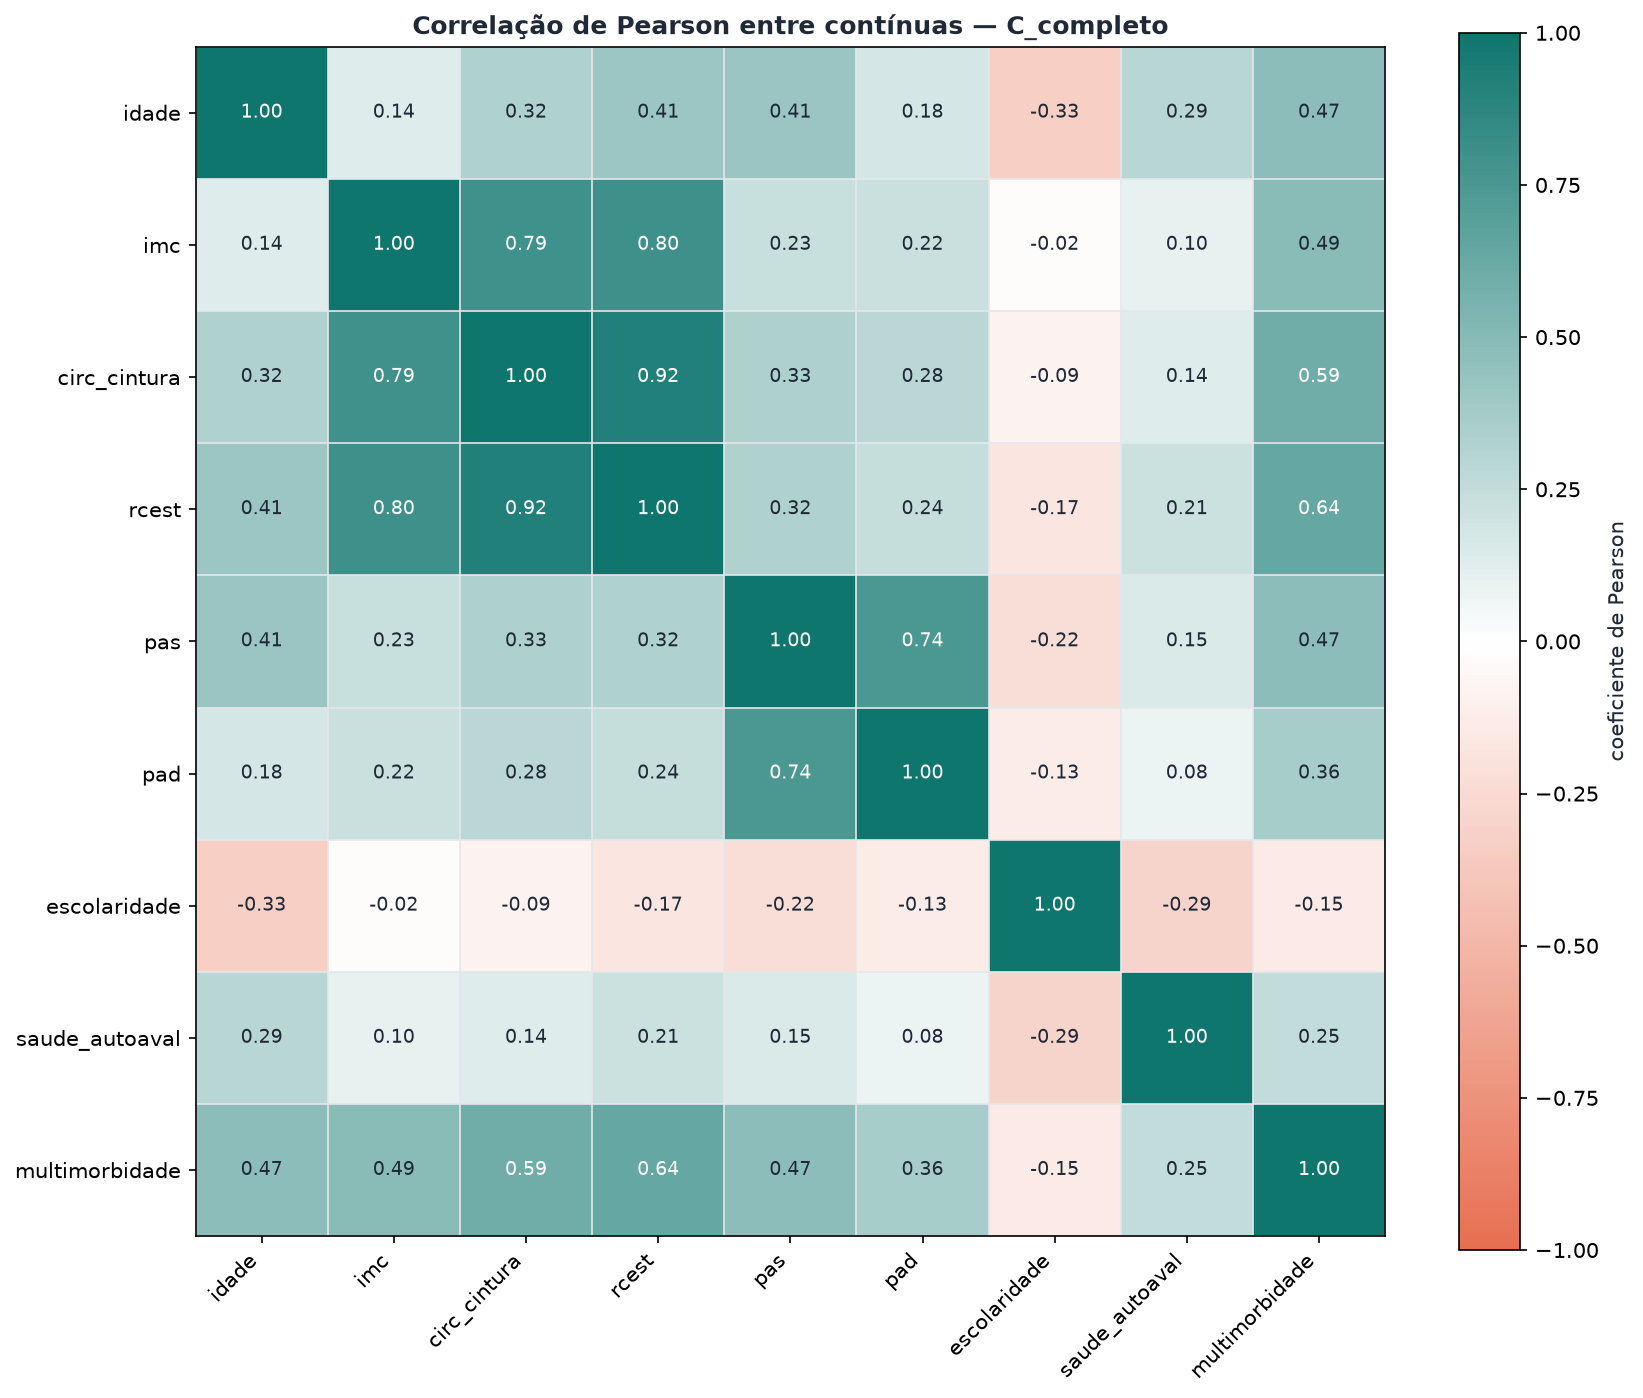
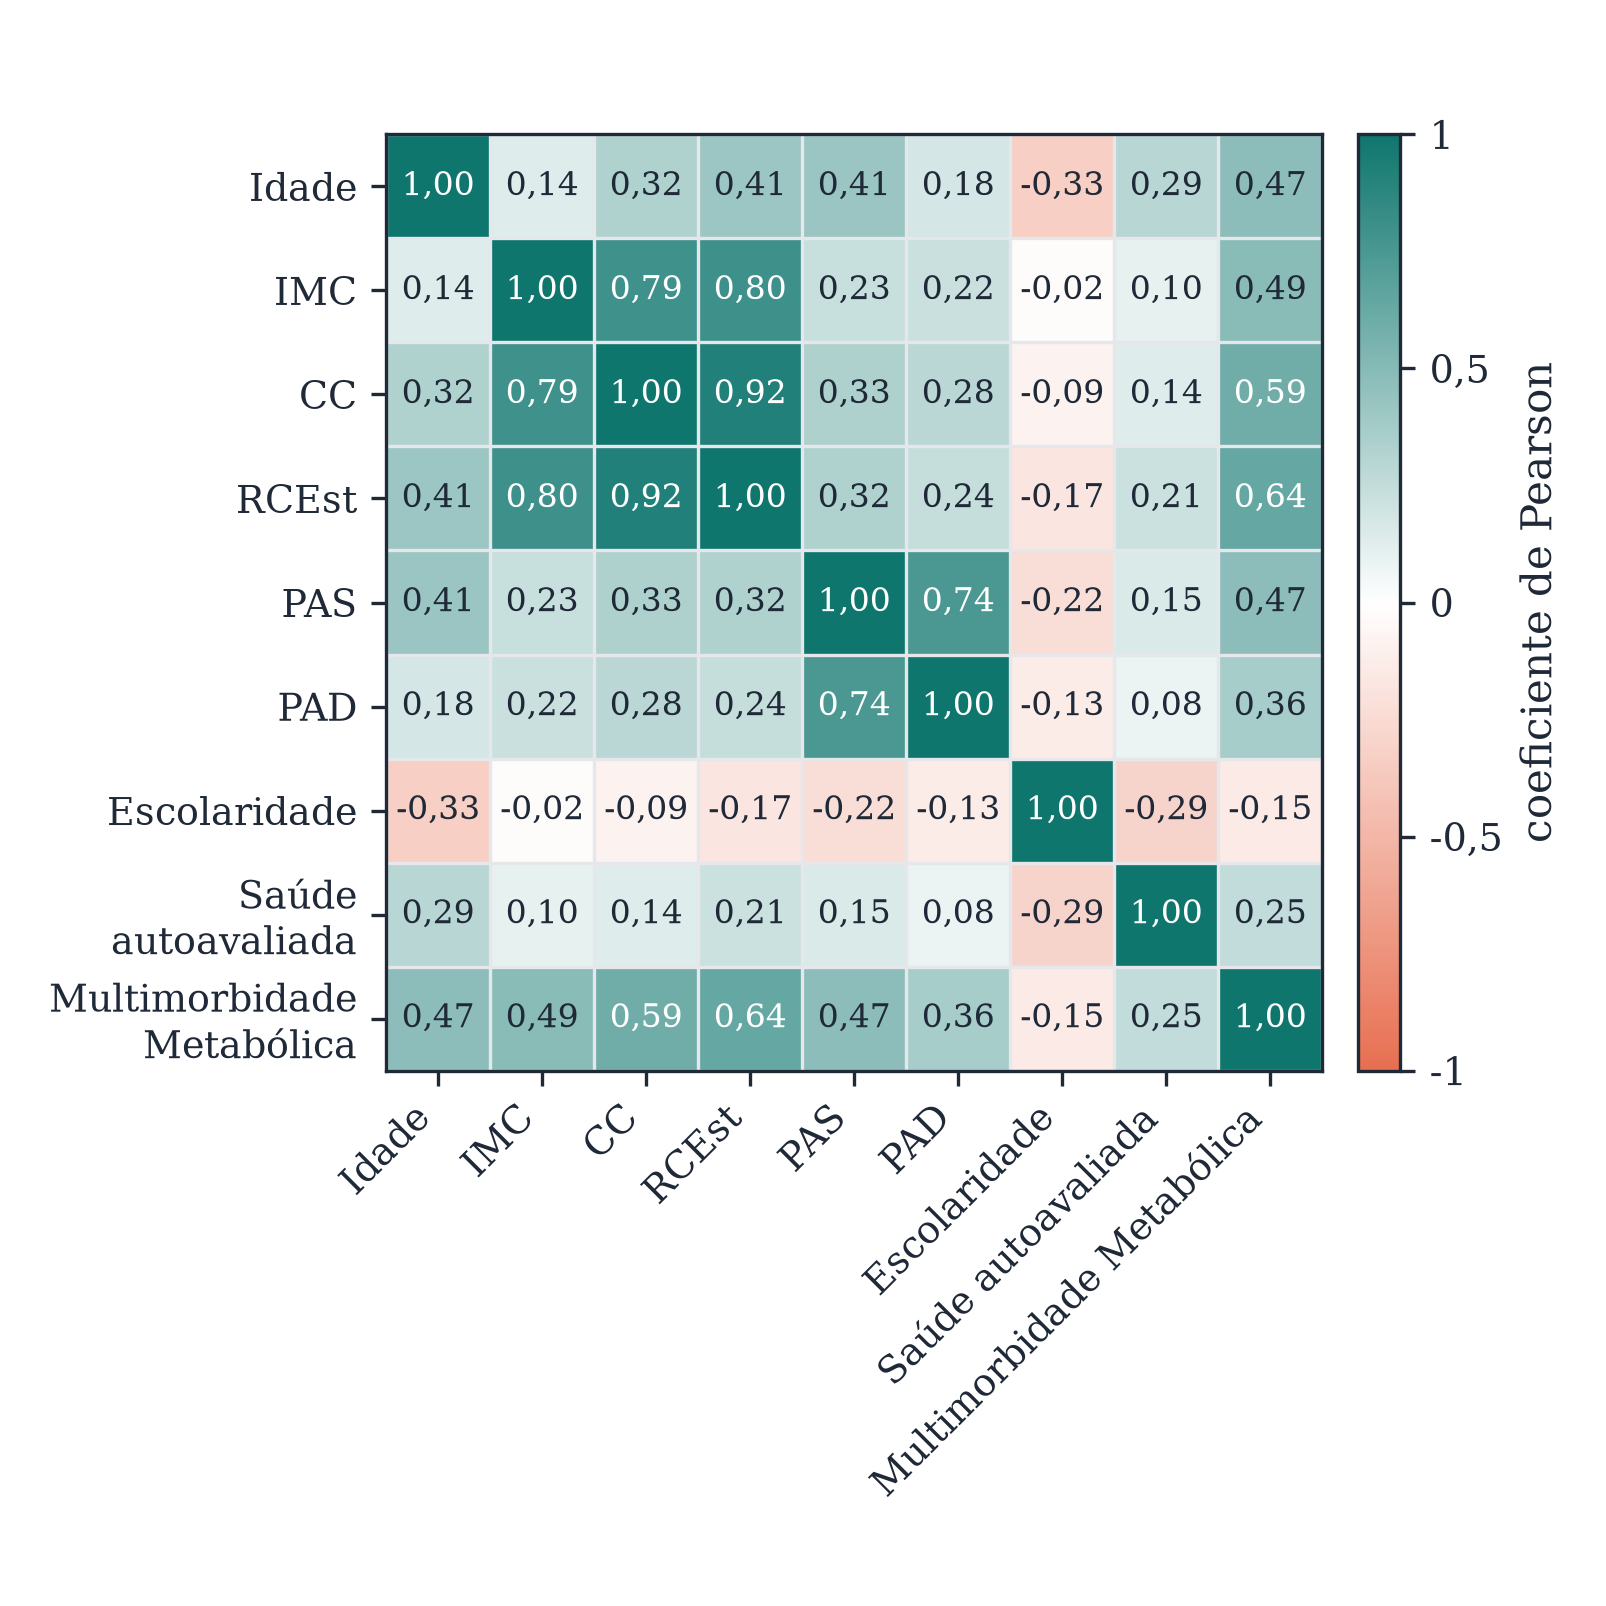
Documentação

diff --git a/monografia/chapters/6-discussoes.tex b/monografia/chapters/6-discussoes.tex
@@ -3,20 +3,27 @@
 % ----------------------------------------------------------
 
 \section{Aplicabilidade na Atenção Primária}\label{sec:disc-aplicabilidade}
-% regra encaminha 84,0% em ponto único; modelo escolhe o ponto conforme a capacidade da rede
-% troca quantificada: 736 encaminhamentos a menos (51,8%) ao custo de 19 casos
-% ordem de grandeza frente à literatura do referencial (FINDRISC, BrDMrisc, Carrillo-Larco),
-%   sem comparação direta: desfechos e desenhos diferentes (pendente: conferir o que cada artigo reporta)
+A regra clínica avaliada encaminhou 84,0\% do conjunto de teste a exame, em um ponto de operação único e não ajustável, de maneira que, aplicada à população atendida pela APS, a regra pouco seleciona quem examinar, deslocando para a etapa laboratorial praticamente toda a demanda. O modelo de referência, por sua vez, permite escolher o ponto de operação conforme a capacidade da rede, característica relevante em um contexto de atendimento predominantemente por demanda espontânea e com capacidade limitada \cite{geremia2020atenccao}. No ponto de operação principal, o modelo encaminhou 40,5\% do conjunto de teste, reduzindo os encaminhamentos em 736, isto é, em 51,8\%, ao custo de 19 casos não detectados em relação à regra. Além disso, a precisão, que corresponde à proporção de encaminhados que de fato apresentaram o desfecho, passou de 0,081 na regra para 0,140 no modelo.
+
+Essa forma de avaliar uma estratégia de triagem pela fração da população que ela encaminha encontra paralelo na literatura nacional. Ao apresentar o BrDMrisc, \textcite{bracco2026brdmrisc} destacam como propriedade favorável do escore a identificação de uma fração mais manejável da população como de alto risco, de 20,0\% contra 40,6\% da estratégia baseada apenas na glicemia de jejum alterada, com probabilidade de desenvolver diabetes entre os identificados de 28,5\% contra 17,1\%. Cabe ressaltar que o BrDMrisc estima o risco de diabetes incidente a partir de uma coorte longitudinal, de maneira que os seus valores não são comparáveis aos deste trabalho, sendo a convergência restrita ao critério de avaliação da triagem.
+
+No que se refere à capacidade discriminativa, a revisão sistemática de \textcite{CarrilloLarco2020} reuniu quatro estudos realizados na América do Sul que reestimaram o FINDRISC para a identificação de diabetes não diagnosticado, com prevalências entre 2,6\% e 5,1\%, e reportou valores de AUC-ROC entre 0,68 e 0,75. Os modelos deste trabalho, com AUC-ROC entre 0,770 e 0,786 no conjunto de teste, situam-se na mesma ordem de grandeza. Essa aproximação, no entanto, não constitui uma comparação direta, visto que os estudos revisados utilizaram amostras locais, um desfecho definido pela combinação de glicemia de jejum, HbA1c e teste de tolerância à glicose, restrito a casos não diagnosticados, além de variáveis comportamentais e de histórico familiar excluídas deste trabalho, enquanto o desfecho aqui adotado corresponde à HbA1c $\geq$ 6,5\% em uma subamostra nacional, sem distinção entre casos previamente diagnosticados e não diagnosticados. Os autores apontaram ainda que todos os estudos apresentaram alto risco de viés e que nenhum reportou métricas de calibração, aspecto avaliado neste trabalho e cujo resultado, apresentado no capítulo de Resultados, restringe a leitura das saídas dos modelos a escores de ordenação.
 
 \section{O Critério de Sucesso no Regime de Sensibilidade Equiparada}\label{sec:disc-criterio}
-% resultado negativo da referência; só RF A cumpre, por 0,009 de NNS
-% critério decidido numa região em que todas as estratégias encaminham mais de 84%
-% por que a referência não foi trocada pela única célula que cumpre (escolha a partir do resultado)
+O modelo de referência não cumpriu o critério de sucesso estabelecido antes da execução, e esse resultado foi mantido como tal, sem redefinição do critério, do regime de comparação ou do modelo de referência. A análise dos números que o compõem, entretanto, qualifica o seu alcance. No regime de sensibilidade equiparada, o modelo de referência encaminhou 40 indivíduos a mais que a regra para detectar 2 casos a mais, isto é, 20 encaminhamentos por caso adicional, valor superior ao NNS da própria regra, de 12,36, o que elevou o seu NNS acima do dela. O \textit{Random Forest} com o conjunto A, por sua vez, encaminhou 36 indivíduos a mais para detectar 3 casos a mais, isto é, 12 encaminhamentos por caso adicional, valor ligeiramente inferior ao NNS da regra, e cumpriu o critério por uma diferença de 0,009.
+
+Essa diferença depende de um único caso, visto que, com 117 casos detectados em vez de 118, o NNS dessa combinação seria de 12,45, superior ao da regra. Diante disso, a substituição do modelo de referência por essa combinação foi descartada por dois motivos. O primeiro é metodológico, visto que a substituição constituiria a escolha do modelo a partir do resultado da própria avaliação, contrariando a regra definida antes da execução. O segundo decorre dos próprios números, visto que a substituição trocaria uma escolha fundamentada em regra prévia por uma vantagem da ordem de um caso, em uma partição de teste com 119 casos positivos.
+
+Além disso, o critério foi decidido em uma região de operação na qual todas as estratégias encaminharam entre 84,0\% e 87,5\% do conjunto de teste e detectaram entre 115 e 118 dos 119 casos positivos, de maneira que as diferenças entre elas se resumiram a poucos casos e a algumas dezenas de encaminhamentos. Essa região decorre da própria regra clínica, que, ao encaminhar todo indivíduo com idade igual ou superior a 35 anos ou com excesso de peso, abrange a maior parte da amostra avaliada, de maneira que equiparar a sensibilidade da regra exige que os modelos operem no extremo de sua curva, onde a ordenação dos indivíduos oferece pouca margem de seleção. Por consequência, o regime equiparado responde se os modelos superam a regra no ponto em que ela opera, porém esse ponto corresponde a uma triagem que encaminha quase toda a população avaliada, situação distinta da que motivou o trabalho, cuja proposta reside na priorização dos encaminhamentos sob capacidade limitada.
+
+Diante disso, o resultado negativo não demonstra que os modelos sejam inferiores à regra, tampouco que a superem, mas sim que, na região de operação da regra, as estratégias se mostraram praticamente equivalentes, com diferenças que dependem de um ou dois casos. A vantagem dos modelos, quando existe, situa-se na possibilidade de operar em outros pontos da curva, conforme discutido na seção de Aplicabilidade na Atenção Primária, argumento que, no entanto, não foi formalizado como critério de sucesso antes da execução e, por esse motivo, não substitui o critério estabelecido.
 
 \section{\textit{Random Forest} e Regressão Logística}\label{sec:disc-algoritmos}
-% ganho de sensibilidade específico do ponto de operação; PR-AUC pior nos dois conjuntos
-% logística abaixo da própria validação cruzada no teste; McNemar: superconjunto dos casos
-% partição única com 119 positivos como escala de incerteza
+% [parágrafo sobre a PR-AUC: aguarda a decisão sobre a decomposição por faixa]
+
+Parte da vantagem do \textit{Random Forest} decorre do comportamento da Regressão Logística no conjunto de teste. Na validação cruzada, os cinco modelos atingiram sensibilidade de 0,802, porém, no teste, o \textit{Random Forest} manteve valores de 0,782 e 0,807, enquanto a Regressão Logística apresentou 0,748 e 0,765. No conjunto B, essa queda de 0,037 corresponde a mais de quatro vezes o desvio padrão da própria regressão entre as partições, de 0,008, de maneira que o resultado do teste se afasta do comportamento observado na validação cruzada. Como a avaliação foi realizada em uma única partição de teste, com 119 casos positivos, na qual cada caso corresponde a 0,008 de sensibilidade, não é possível distinguir se essa queda reflete uma menor capacidade de generalização do ponto de operação da regressão ou uma particularidade da partição.
+
+O teste pareado reforça essa leitura cautelosa, visto que a diferença de acerto global entre os modelos não foi significativa, enquanto a floresta detectou cinco casos a mais, incluindo todos os detectados pela regressão, e encaminhou 19 indivíduos sem o desfecho a mais. Em termos operacionais, esses cinco casos adicionais custaram 4,8 encaminhamentos cada, valor inferior ao NNS de ambos os modelos, e, no regime de sensibilidade equiparada, a floresta encaminhou menos indivíduos e detectou ao menos o mesmo número de casos nos dois conjuntos. Diante disso, a escolha do \textit{Random Forest} como modelo de referência é sustentada pelos indicadores operacionais, porém a magnitude da vantagem, de cinco casos em uma partição com 119 positivos, recomenda que ela seja confirmada em partições ou bases de dados adicionais. Além disso, a análise realizada não permite atribuir a diferença a um mecanismo específico, como a captura de interações entre variáveis, visto que nenhum experimento foi desenhado para isolar esse efeito.
 
 \section{Desbalanceamento e Calibração}\label{sec:disc-calibracao}
 % por que reponderar se o limiar já trata o desbalanceamento (van den Goorbergh)

diff --git a/monografia/chapters/5-resultados.tex b/monografia/chapters/5-resultados.tex
@@ -95,7 +95,8 @@ A busca avaliou as mesmas sessenta combinações de hiperparâmetros nos conjunt
 \begin{table}[htb]
   \centering
   \caption{\label{tab:busca}Principais combinações da busca de hiperparâmetros do \textit{Random Forest}, por validação cruzada no conjunto de treino.}
-  \small
+  \footnotesize
+  \setlength{\tabcolsep}{4pt}
   \begin{tabular}{llrrlrrr}
     \hline
     Conjunto & Combinação & Prof. & Folha & Colunas & Posição & PR-AUC & DP \\ \hline
@@ -119,7 +120,8 @@ O desempenho dos cinco modelos no conjunto de teste, cada um em seu limiar de de
 \begin{table}[htb]
   \centering
   \caption{\label{tab:desempenho-teste}Desempenho no conjunto de teste, no ponto de operação principal.}
-  \small
+  \footnotesize
+  \setlength{\tabcolsep}{4pt}
   \begin{tabular}{llrrrrrrrr}
     \hline
     Modelo & Conjunto & Limiar & Sensib. & Espec. & F1 & AUC-ROC & PR-AUC & NNS & Encam. (\%) \\ \hline
@@ -176,16 +178,17 @@ A comparação com a regra clínica foi realizada em três regimes de encaminham
 \begin{table}[htb]
   \centering
   \caption{\label{tab:regimes}Regimes de encaminhamento da regra clínica e do modelo de referência, no conjunto de teste.}
-  \small
+  \footnotesize
+  \setlength{\tabcolsep}{4pt}
   \begin{tabular}{lrrrrrr}
     \hline
-    Estratégia & Encaminhados & (\%) & Detectados & Não detectados & Sensibilidade & NNS \\ \hline
+    Estratégia & Encam. & (\%) & Detect. & Não detect. & Sensib. & NNS \\ \hline
     Regra clínica & 1.421 & 84,0 & 115 & 4 & 0,966 & 12,36 \\
     RF, sensibilidade equiparada & 1.461 & 86,4 & 117 & 2 & 0,983 & 12,49 \\
-    RF, ponto de operação principal & 685 & 40,5 & 96 & 23 & 0,807 & 7,14 \\ \hline
+    RF, ponto principal & 685 & 40,5 & 96 & 23 & 0,807 & 7,14 \\ \hline
   \end{tabular}
   \fonte{Elaborado pelo autor, a partir de \textcite{IBGE_PNS2013_Exames}.}
-  \legend{RF: \textit{Random Forest} com o conjunto B, modelo de referência.}
+  \legend{RF: \textit{Random Forest} com o conjunto B, modelo de referência; Encam.: encaminhados; Detect.: detectados; Sensib.: sensibilidade.}
 \end{table}
 
 No regime de sensibilidade equiparada, os limiares dos modelos foram recalibrados para a sensibilidade de 0,977, obtida pela regra no conjunto de treino, e os resultados de todas as combinações são apresentados na Tabela~\ref{tab:equiparado}. No conjunto de teste, todos os modelos superaram a sensibilidade da regra, de 0,966, com valores entre 0,983 e 0,992, de maneira que o critério de sucesso foi decidido pelo NNS. Apenas o \textit{Random Forest} com o conjunto A cumpriu o critério, com NNS de 12,347 contra 12,357 da regra, diferença de 0,009, ao detectar 118 casos com 1.457 encaminhamentos. O modelo de referência não cumpriu o critério, visto que detectou 117 casos com 1.461 encaminhamentos, resultando em NNS de 12,487, superior ao da regra, e nenhuma das combinações da Regressão Logística o cumpriu, com NNS entre 12,385 e 12,650. Cabe ressaltar que, nesse regime, tanto a regra quanto os modelos encaminharam entre 84,0\% e 87,5\% do conjunto de teste.
@@ -193,7 +196,8 @@ No regime de sensibilidade equiparada, os limiares dos modelos foram recalibrado
 \begin{table}[htb]
   \centering
   \caption{\label{tab:equiparado}Regime de sensibilidade equiparada e cumprimento do critério de sucesso, no conjunto de teste.}
-  \small
+  \footnotesize
+  \setlength{\tabcolsep}{4pt}
   \begin{tabular}{llrrrrrl}
     \hline
     Modelo & Conjunto & Sensibilidade & Encaminhados & (\%) & Detectados & NNS & Critério \\ \hline
@@ -215,7 +219,8 @@ Por fim, a Tabela~\ref{tab:custo-marginal} compara o \textit{Random Forest} e a 
 \begin{table}[htb]
   \centering
   \caption{\label{tab:custo-marginal}Custo marginal do \textit{Random Forest} em relação à Regressão Logística, no conjunto de teste.}
-  \small
+  \footnotesize
+  \setlength{\tabcolsep}{4pt}
   \begin{tabular}{llrrrrl}
     \hline
     Conjunto & Regime & Encam. RF & Detect. RF & Encam. RL & Detect. RL & Leitura \\ \hline
@@ -253,7 +258,8 @@ Os indicadores de calibração dos cinco modelos são apresentados na Tabela~\re
 \begin{table}[htb]
   \centering
   \caption{\label{tab:calibracao}Indicadores de calibração no conjunto de teste.}
-  \small
+  \footnotesize
+  \setlength{\tabcolsep}{4pt}
   \begin{tabular}{llrrrrrrr}
     \hline
     Modelo & Conjunto & Brier & \textit{Brier skill} & Prob. média & Inflação & ECE & Inclinação & Intercepto \\ \hline

diff --git a/reports/tabelas/pr_auc_por_faixa.tex b/reports/tabelas/pr_auc_por_faixa.tex
@@ -1,0 +1,60 @@
+\begin{tabular}{llrrrr}
+\toprule
+modelo & conjunto & faixa_inicio & faixa_fim & contribuicao & fracao_da_pr_auc \\
+\midrule
+LogReg & A_atomico & 0.0000 & 0.1000 & 0.0706 & 0.2794 \\
+LogReg & A_atomico & 0.1000 & 0.2000 & 0.0339 & 0.1340 \\
+LogReg & A_atomico & 0.2000 & 0.3000 & 0.0299 & 0.1184 \\
+LogReg & A_atomico & 0.3000 & 0.4000 & 0.0249 & 0.0987 \\
+LogReg & A_atomico & 0.4000 & 0.5000 & 0.0209 & 0.0829 \\
+LogReg & A_atomico & 0.5000 & 0.6000 & 0.0198 & 0.0782 \\
+LogReg & A_atomico & 0.6000 & 0.7000 & 0.0170 & 0.0672 \\
+LogReg & A_atomico & 0.7000 & 0.8000 & 0.0140 & 0.0553 \\
+LogReg & A_atomico & 0.8000 & 0.9000 & 0.0121 & 0.0479 \\
+LogReg & A_atomico & 0.9000 & 1.0000 & 0.0096 & 0.0380 \\
+LogReg & B_composto & 0.0000 & 0.1000 & 0.0728 & 0.2984 \\
+LogReg & B_composto & 0.1000 & 0.2000 & 0.0279 & 0.1145 \\
+LogReg & B_composto & 0.2000 & 0.3000 & 0.0225 & 0.0922 \\
+LogReg & B_composto & 0.3000 & 0.4000 & 0.0228 & 0.0932 \\
+LogReg & B_composto & 0.4000 & 0.5000 & 0.0217 & 0.0890 \\
+LogReg & B_composto & 0.5000 & 0.6000 & 0.0214 & 0.0876 \\
+LogReg & B_composto & 0.6000 & 0.7000 & 0.0180 & 0.0737 \\
+LogReg & B_composto & 0.7000 & 0.8000 & 0.0146 & 0.0599 \\
+LogReg & B_composto & 0.8000 & 0.9000 & 0.0124 & 0.0509 \\
+LogReg & B_composto & 0.9000 & 1.0000 & 0.0099 & 0.0407 \\
+LogReg & C_completo & 0.0000 & 0.1000 & 0.0724 & 0.2941 \\
+LogReg & C_completo & 0.1000 & 0.2000 & 0.0307 & 0.1249 \\
+LogReg & C_completo & 0.2000 & 0.3000 & 0.0284 & 0.1152 \\
+LogReg & C_completo & 0.3000 & 0.4000 & 0.0231 & 0.0938 \\
+LogReg & C_completo & 0.4000 & 0.5000 & 0.0209 & 0.0851 \\
+LogReg & C_completo & 0.5000 & 0.6000 & 0.0186 & 0.0756 \\
+LogReg & C_completo & 0.6000 & 0.7000 & 0.0167 & 0.0677 \\
+LogReg & C_completo & 0.7000 & 0.8000 & 0.0136 & 0.0552 \\
+LogReg & C_completo & 0.8000 & 0.9000 & 0.0123 & 0.0501 \\
+LogReg & C_completo & 0.9000 & 1.0000 & 0.0094 & 0.0382 \\
+Random Forest & A_atomico & 0.0000 & 0.1000 & 0.0391 & 0.1674 \\
+Random Forest & A_atomico & 0.1000 & 0.2000 & 0.0374 & 0.1600 \\
+Random Forest & A_atomico & 0.2000 & 0.3000 & 0.0278 & 0.1191 \\
+Random Forest & A_atomico & 0.3000 & 0.4000 & 0.0258 & 0.1106 \\
+Random Forest & A_atomico & 0.4000 & 0.5000 & 0.0239 & 0.1025 \\
+Random Forest & A_atomico & 0.5000 & 0.6000 & 0.0230 & 0.0984 \\
+Random Forest & A_atomico & 0.6000 & 0.7000 & 0.0192 & 0.0821 \\
+Random Forest & A_atomico & 0.7000 & 0.8000 & 0.0160 & 0.0687 \\
+Random Forest & A_atomico & 0.8000 & 0.9000 & 0.0121 & 0.0517 \\
+Random Forest & A_atomico & 0.9000 & 1.0000 & 0.0092 & 0.0395 \\
+Random Forest & B_composto & 0.0000 & 0.1000 & 0.0389 & 0.1725 \\
+Random Forest & B_composto & 0.1000 & 0.2000 & 0.0393 & 0.1744 \\
+Random Forest & B_composto & 0.2000 & 0.3000 & 0.0275 & 0.1221 \\
+Random Forest & B_composto & 0.3000 & 0.4000 & 0.0223 & 0.0989 \\
+Random Forest & B_composto & 0.4000 & 0.5000 & 0.0219 & 0.0969 \\
+Random Forest & B_composto & 0.5000 & 0.6000 & 0.0214 & 0.0949 \\
+Random Forest & B_composto & 0.6000 & 0.7000 & 0.0173 & 0.0768 \\
+Random Forest & B_composto & 0.7000 & 0.8000 & 0.0154 & 0.0682 \\
+Random Forest & B_composto & 0.8000 & 0.9000 & 0.0120 & 0.0532 \\
+Random Forest & B_composto & 0.9000 & 1.0000 & 0.0094 & 0.0419 \\
+\bottomrule
+\end{tabular}
+
+\begin{flushleft}
+\footnotesize Contribuição de cada decil de sensibilidade, fechado à direita, à soma em degrau da PR-AUC no teste. As faixas de cada célula somam a PR-AUC da tabela consolidada.
+\end{flushleft}
